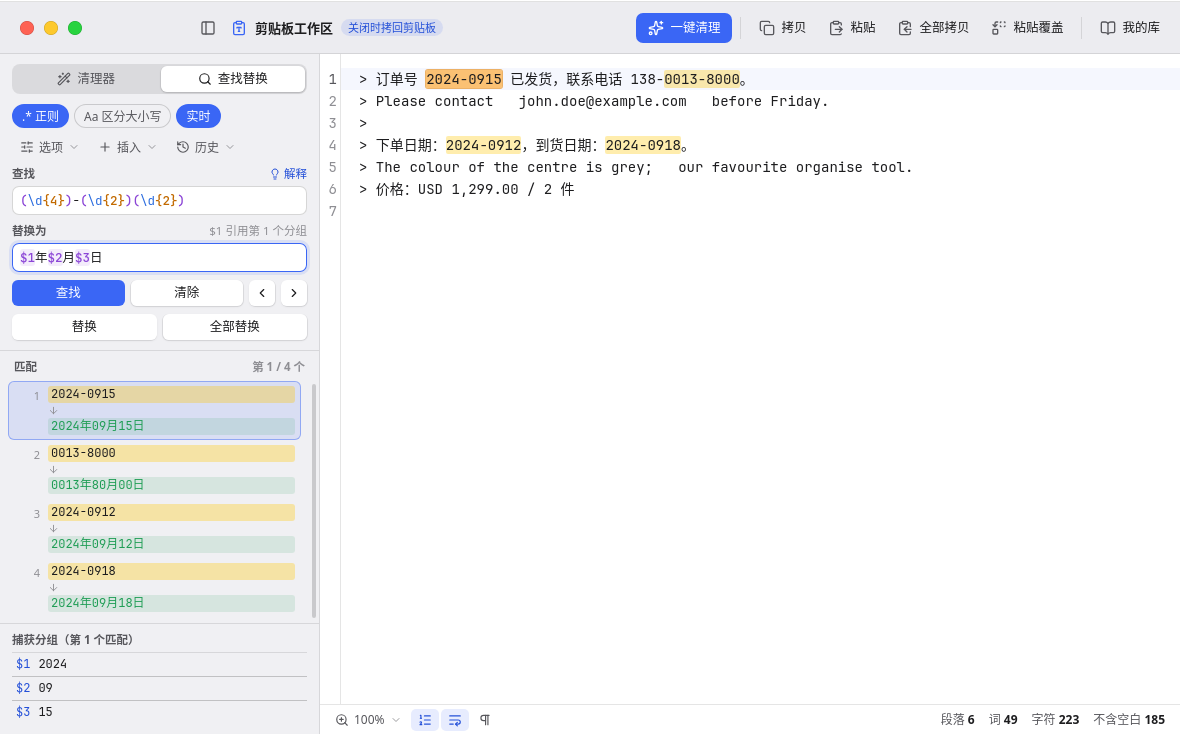
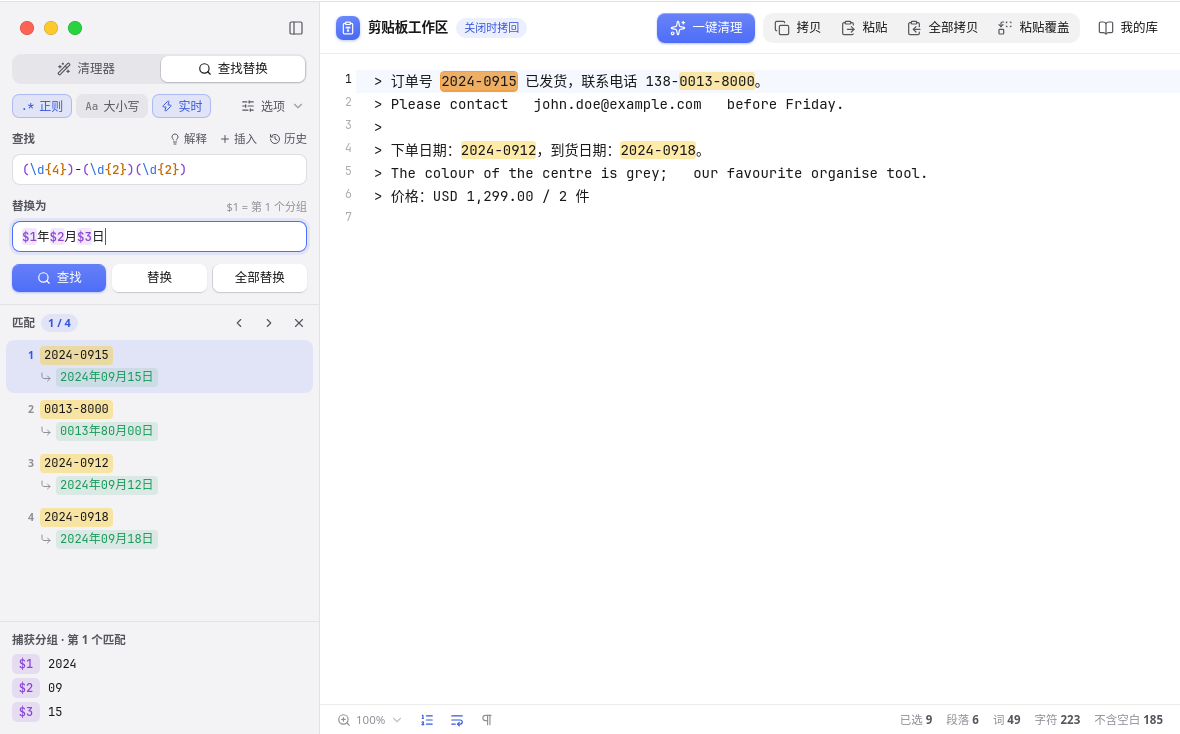
docs: screenshots of the redesigned UI, dark theme

diff --git a/README.md b/README.md
@@ -40,7 +40,9 @@
 
 - **批量处理文件**（`⇧⌘B`）：选文件或文件夹 → 选清理器 → 写到旁边的 `results/` 子文件夹（或指定文件夹、加前缀/后缀/新扩展名）。永远不会覆盖原文件。
 - **偏好设置**（`⌘,`）：主题、启动和关闭剪贴板工作区的行为、MyScrub 使用的清理器、编辑器字体/行号/折行/不可见字符、查找默认选项、全局快捷键。
-- 浅色 / 深色 / 跟随系统。
+- 浅色 / 深色 / 跟随系统；可显示空格（·）、制表符（→）和换行（↵）。
+
+![深色主题、显示不可见字符和正则解释](docs/screenshots/dark.png)
 
 ## 下载与安装（macOS）
 
